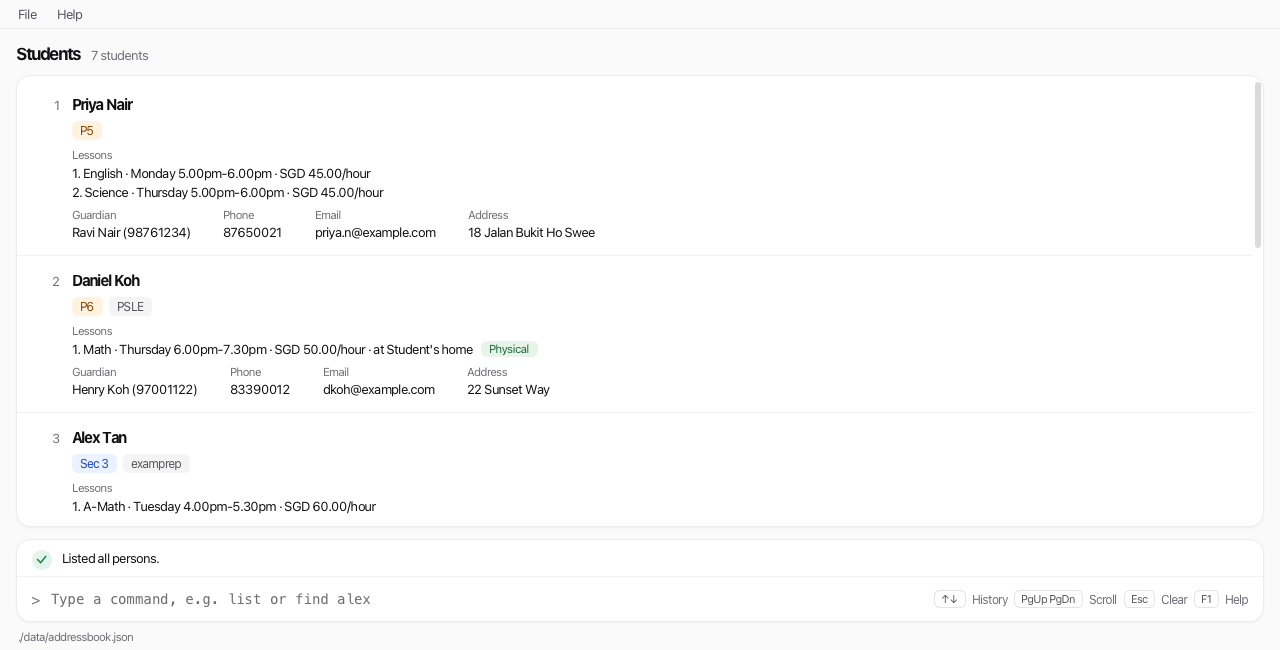
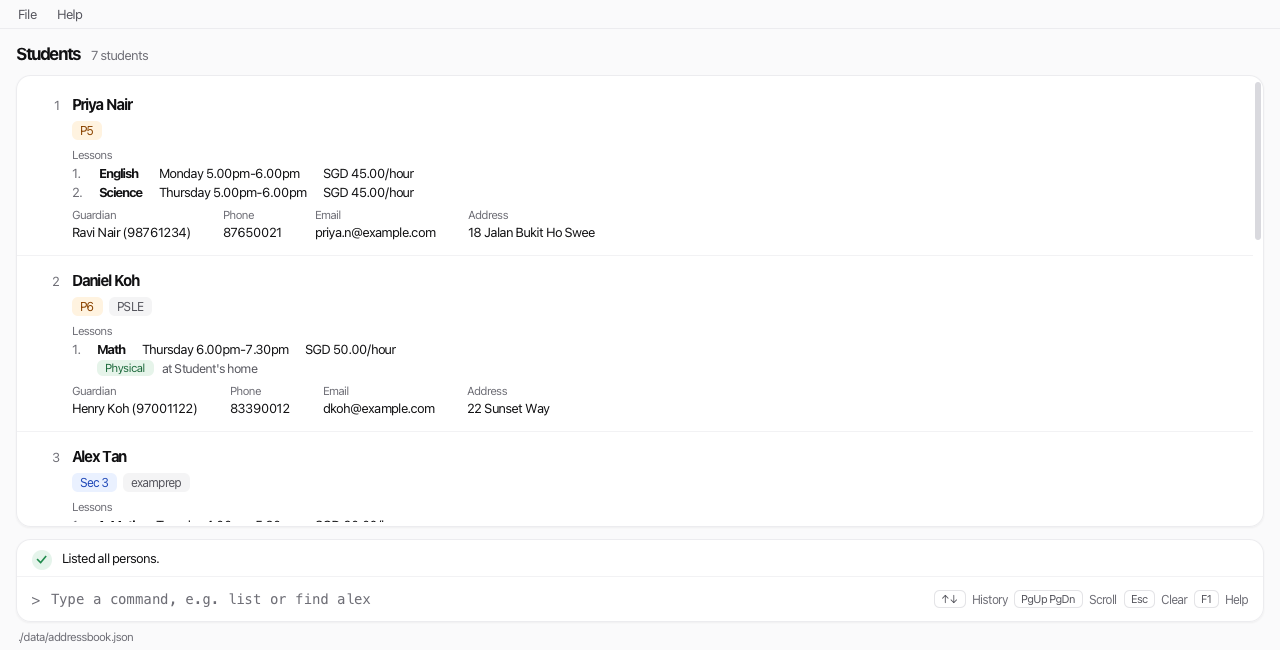
Show lessons as an aligned table on student cards
Line up each lesson's number, subject, time and rate in columns, with
the mode tag and location on a second line.

Changed region(s): [[0.0312, 0.5231, 0.4375, 0.8], [0.0625, 0.2462, 0.3125, 0.3077]]

diff --git a/src/main/resources/view/LightTheme.css b/src/main/resources/view/LightTheme.css
@@ -170,6 +170,23 @@
     -fx-text-fill: -sb-text-secondary;
 }
 
+/* Lessons table */
+.lesson-number {
+    -fx-font-size: 13px;
+    -fx-fill: -sb-text-muted;
+}
+
+.lesson-subject {
+    -fx-font-size: 13px;
+    -fx-font-weight: bold;
+    -fx-fill: -sb-text;
+}
+
+.lesson-location {
+    -fx-font-size: 12.5px;
+    -fx-fill: -sb-text-secondary;
+}
+
 /* Lesson mode chips: the two fixed modes each get a colour */
 .mode-chip {
     -fx-font-size: 11.5px;

diff --git a/src/main/java/seedu/address/ui/PersonCard.java b/src/main/java/seedu/address/ui/PersonCard.java
@@ -9,10 +9,12 @@ import java.util.Optional;
 
 import javafx.beans.binding.Bindings;
 import javafx.beans.binding.DoubleExpression;
+import javafx.beans.property.SimpleDoubleProperty;
 import javafx.fxml.FXML;
 import javafx.geometry.Pos;
 import javafx.scene.control.Label;
 import javafx.scene.layout.FlowPane;
+import javafx.scene.layout.GridPane;
 import javafx.scene.layout.HBox;
 import javafx.scene.layout.Region;
 import javafx.scene.layout.VBox;
@@ -34,9 +36,14 @@ public class PersonCard extends UiPart<Region> {
     private static final double FACT_FONT_SIZE = 13;
     /** The chip's horizontal padding (8 + 8) plus the 6px gap before the tags. */
     private static final double CHIP_PADDING_AND_GAP = 22;
-    /** A chip's horizontal padding (8 + 8), and the gap between a lesson and its mode chip. */
-    private static final double CHIP_PADDING = 16;
+    /** Gaps in the lessons table, and between a lesson's mode chip and its location. */
+    private static final double LESSON_COLUMN_GAP = 16;
+    private static final double LESSON_ROW_GAP = 3;
     private static final double MODE_CHIP_GAP = 8;
+    /** Room for the widest mode chip ("Physical") and its gap, in front of a location line. */
+    private static final double MODE_CHIP_ALLOWANCE = 76;
+    /** Subjects longer than this wrap, so the slot and rate columns still fit a 600px window. */
+    private static final double SUBJECT_MAX_WIDTH = 150;
     /** Colours the level chip by school stage; unrecognised levels stay neutral. */
     private static final Map<StudentCardText.Stage, String> STAGE_STYLE_CLASSES = Map.of(
             StudentCardText.Stage.PRIMARY, "level-primary",
@@ -79,9 +86,11 @@ public class PersonCard extends UiPart<Region> {
     @FXML
     private Text address;
 
-    /** Each lesson's text, with the mode chip beside it if the lesson has a mode. */
-    private final List<Text> lessonTexts = new ArrayList<>();
-    private final List<Optional<Label>> lessonModes = new ArrayList<>();
+    /** Text that wraps within the lessons table: long subjects, and each lesson's location line. */
+    private final List<Text> lessonSubjects = new ArrayList<>();
+    private final List<Text> lessonLocations = new ArrayList<>();
+    /** Width of the lesson number column, which the location line is indented by. */
+    private double lessonNumberWidth;
 
     /**
      * Creates a {@code PersonCard} with the given {@code Student} and index to display.
@@ -121,26 +130,56 @@ public class PersonCard extends UiPart<Region> {
         if (lines.isEmpty()) {
             Text none = new Text(StudentCardText.NO_LESSONS);
             none.getStyleClass().addAll(LESSON_STYLE_CLASS, EMPTY_VALUE_STYLE_CLASS);
-            lessonTexts.add(none);
-            lessonModes.add(Optional.empty());
             lessons.getChildren().add(none);
+        } else {
+            lessons.getChildren().add(lessonTable(lines));
         }
+    }
+
+    /**
+     * Lays the lessons out as a small table: number, subject, day and time, and rate line up in columns, and a
+     * lesson's mode and location sit on a second line under its subject. Numbers match {@code LESSON_INDEX}.
+     */
+    private GridPane lessonTable(List<StudentCardText.LessonLine> lines) {
+        GridPane table = new GridPane();
+        table.setHgap(LESSON_COLUMN_GAP);
+        table.setVgap(LESSON_ROW_GAP);
+        int row = 0;
         for (StudentCardText.LessonLine line : lines) {
-            Text text = new Text(line.text());
-            text.getStyleClass().add(LESSON_STYLE_CLASS);
-            Optional<Label> mode = line.mode().map(lessonMode -> {
+            Text number = new Text(line.number() + ".");
+            number.getStyleClass().add("lesson-number");
+            lessonNumberWidth = Math.max(lessonNumberWidth, textWidth(number.getText(), FACT_FONT_SIZE));
+            Text subject = new Text(line.subject());
+            subject.getStyleClass().add("lesson-subject");
+            lessonSubjects.add(subject);
+            table.addRow(row++, number, subject, lessonText(line.slot()), lessonText(line.rate()));
+
+            if (line.mode().isEmpty() && line.location().isEmpty()) {
+                continue;
+            }
+            HBox details = new HBox(MODE_CHIP_GAP);
+            details.setAlignment(Pos.CENTER_LEFT);
+            line.mode().ifPresent(lessonMode -> {
                 Label chip = new Label(lessonMode.toString());
                 chip.getStyleClass().addAll("chip", "mode-chip", "mode-" + lessonMode.name().toLowerCase(Locale.ROOT));
                 chip.setMinWidth(Region.USE_PREF_SIZE);
-                return chip;
+                details.getChildren().add(chip);
             });
-            HBox row = new HBox(MODE_CHIP_GAP, text);
-            row.setAlignment(Pos.CENTER_LEFT);
-            mode.ifPresent(row.getChildren()::add);
-            lessonTexts.add(text);
-            lessonModes.add(mode);
-            lessons.getChildren().add(row);
+            line.location().ifPresent(location -> {
+                Text text = new Text("at " + location);
+                text.getStyleClass().add("lesson-location");
+                lessonLocations.add(text);
+                details.getChildren().add(text);
+            });
+            table.add(details, 1, row++, 3, 1);
         }
+        return table;
+    }
+
+    private static Text lessonText(String value) {
+        Text text = new Text(value);
+        text.getStyleClass().add(LESSON_STYLE_CLASS);
+        return text;
     }
 
     /**
@@ -155,12 +194,11 @@ public class PersonCard extends UiPart<Region> {
         tags.prefWrapLengthProperty().bind(width.subtract(chipWidth));
         facts.prefWrapLengthProperty().bind(width);
         name.wrappingWidthProperty().bind(width);
-        for (int i = 0; i < lessonTexts.size(); i++) {
-            // A lesson's mode chip follows its text, so the text wraps in the width the chip leaves.
-            double modeWidth = lessonModes.get(i)
-                    .map(chip -> textWidth(chip.getText(), CHIP_FONT_SIZE) + CHIP_PADDING + MODE_CHIP_GAP).orElse(0.0);
-            wrapWhenLonger(lessonTexts.get(i), width.subtract(modeWidth));
-        }
+        // Long subjects wrap within their column; a location line can use the width beside the number column,
+        // less the mode chip in front of it.
+        lessonSubjects.forEach(subject -> wrapWhenLonger(subject, new SimpleDoubleProperty(SUBJECT_MAX_WIDTH)));
+        DoubleExpression locationWidth = width.subtract(lessonNumberWidth + LESSON_COLUMN_GAP + MODE_CHIP_ALLOWANCE);
+        lessonLocations.forEach(location -> wrapWhenLonger(location, locationWidth));
         wrapWhenLonger(guardian, width);
         wrapWhenLonger(email, width);
         wrapWhenLonger(address, Bindings.min(width, ADDRESS_MAX_WIDTH));

diff --git a/src/main/java/seedu/address/ui/StudentCardText.java b/src/main/java/seedu/address/ui/StudentCardText.java
@@ -20,8 +20,11 @@ final class StudentCardText {
     /** School stage of a schooling level, which sets the colour of its chip. */
     enum Stage { PRIMARY, SECONDARY, JC, OTHER }
 
-    /** One lesson line: its text, and its mode, which is shown as a separate coloured chip. */
-    record LessonLine(String text, Optional<LessonMode> mode) {}
+    /**
+     * One lesson, split into the parts the card lines up in columns. The number is the lesson's LESSON_INDEX.
+     */
+    record LessonLine(int number, String subject, String slot, String rate,
+            Optional<String> location, Optional<LessonMode> mode) {}
 
     // Levels are free text, so only clear forms such as "P5", "Primary 5", "Sec 3 Express" or "JC1" get a stage
     // colour. Anything else (e.g. "Poly Y1", "IB") is OTHER, so a level is never shown in the wrong colour.
@@ -47,8 +50,8 @@ final class StudentCardText {
     }
 
     /**
-     * Returns one line per lesson, numbered from 1 in stored order so the numbers match {@code LESSON_INDEX},
-     * e.g. "1. Math · Tuesday 4.00pm-5.30pm · SGD 60.00/hour · at Library", with the mode kept separately.
+     * Returns one entry per lesson, numbered from 1 in stored order so the numbers match {@code LESSON_INDEX},
+     * e.g. 1, "Math", "Tuesday 4.00pm-5.30pm", "SGD 60.00/hour", location "Library", mode Physical.
      * Returns an empty list when the student has no lessons.
      */
     static List<LessonLine> lessons(Student student) {
@@ -56,10 +59,9 @@ final class StudentCardText {
         List<Lesson> lessons = student.getLessons();
         for (int i = 0; i < lessons.size(); i++) {
             Lesson lesson = lessons.get(i);
-            StringBuilder line = new StringBuilder((i + 1) + ". " + lesson.getSubject() + " · "
-                    + lesson.getWeeklyLessonSlot() + " · SGD " + lesson.getHourlyRate() + "/hour");
-            lesson.getLocation().ifPresent(location -> line.append(" · at ").append(location));
-            lines.add(new LessonLine(line.toString(), lesson.getMode()));
+            lines.add(new LessonLine(i + 1, lesson.getSubject().toString(), lesson.getWeeklyLessonSlot().toString(),
+                    "SGD " + lesson.getHourlyRate() + "/hour", lesson.getLocation().map(Object::toString),
+                    lesson.getMode()));
         }
         return lines;
     }

diff --git a/src/test/java/seedu/address/ui/StudentCardTextTest.java b/src/test/java/seedu/address/ui/StudentCardTextTest.java
@@ -43,14 +43,15 @@ public class StudentCardTextTest {
     }
 
     // lesson-edit and lesson-delete take LESSON_INDEX, so the card must number lessons from 1 in stored order.
-    // The mode is kept apart from the text because the card shows it as a coloured chip.
+    // Location and mode are optional and stay empty when not recorded.
     @Test
-    public void lessons_numberedInStoredOrderWithModeSeparate() {
+    public void lessons_numberedInStoredOrderWithOptionalDetails() {
         Student student = new PersonBuilder().withLessons(MATH, ENGLISH).build();
         assertEquals(List.of(
-                new LessonLine("1. Math · Tuesday 4.00pm-5.30pm · SGD 60.00/hour", Optional.empty()),
-                new LessonLine("2. English · Saturday 10.00am-11.00am · SGD 45.50/hour · at Tampines Library",
-                        Optional.of(LessonMode.PHYSICAL))),
+                new LessonLine(1, "Math", "Tuesday 4.00pm-5.30pm", "SGD 60.00/hour", Optional.empty(),
+                        Optional.empty()),
+                new LessonLine(2, "English", "Saturday 10.00am-11.00am", "SGD 45.50/hour",
+                        Optional.of("Tampines Library"), Optional.of(LessonMode.PHYSICAL))),
                 StudentCardText.lessons(student));
     }
 

diff --git a/docs/DeveloperGuide.md b/docs/DeveloperGuide.md
@@ -58,7 +58,7 @@ The UI sends commands to `Logic` and observes two lists:
 
 When either list changes, the `ListView` rebuilds the affected `PersonCard`s, so cards never show stale data after an edit.
 
-* **Cards:** `PersonCard` shows the contact fields, the optional level, tags and guardian, and the student's lessons. `StudentCardText` numbers the lessons from 1 in stored order, so each number is the `LESSON_INDEX` for `lesson-edit` and `lesson-delete`. A missing guardian shows as a muted `Not set` and no lessons as `No lessons yet`. `StudentCardText#stageOf` colours the level chip by school stage, matching only clear forms such as `P5`, `Sec 3 Express` and `JC1`; other levels stay neutral, since levels are free text. Each lesson's mode is a chip after its text, coloured by mode. JavaFX asks a list cell for its height before laying it out. So the card's wrapping text (`Text`) and its `FlowPane` rows wrap at a width bound to the list's width. Long names, subjects and addresses wrap instead of being cut off.
+* **Cards:** `PersonCard` shows the contact fields, the optional level, tags and guardian, and the student's lessons. `StudentCardText` numbers the lessons from 1 in stored order, so each number is the `LESSON_INDEX` for `lesson-edit` and `lesson-delete`. A missing guardian shows as a muted `Not set` and no lessons as `No lessons yet`. `StudentCardText#stageOf` colours the level chip by school stage, matching only clear forms such as `P5`, `Sec 3 Express` and `JC1`; other levels stay neutral, since levels are free text. Lessons are a `GridPane` so their parts line up; each lesson's mode is a coloured chip on a second line with its location. JavaFX asks a list cell for its height before laying it out. So the card's wrapping text (`Text`) and its `FlowPane` rows wrap at a width bound to the list's width. Long names, subjects and addresses wrap instead of being cut off.
 * **Results:** `MainWindow#executeCommand` sends successes to `ResultDisplay#setFeedbackToUser` and failures to `ResultDisplay#setErrorToUser`. The row shows a matching mark. `FeedbackLines` splits a message into a title, text, formats and examples; it recognises the shapes the commands' `MESSAGE_USAGE` strings use. `ResultDisplay` shows formats and examples with captions in a monospace font chosen by `MonospaceFont`; clicking one copies it, since `Text` nodes cannot be selected. The row sizes to the message and scrolls past its maximum height. `FeedbackLinesTest` runs every command's real usage error, so rewording a usage message into an unrecognised shape fails a test.
 * **Keyboard:** `CommandBox` keeps the AB3 behaviour: it clears the input after a success, and keeps it with an error style after a failure. It also handles Up and Down through `CommandHistory` (this session only, with the unsent text kept), Esc to clear, and Page Up and Page Down, which call `PersonListPanel#scrollPage` so the list scrolls while focus stays in the box. Key hints show while the box is empty and the window is at least 720px wide. `MainWindow` focuses the command box after building its parts, and Esc closes `HelpWindow`.
 * **Window size:** The window's minimum size is 600×400. A saved window size larger than the screen it opens on is reduced to fit, so the app stays usable on a 1280×720 screen at 150% scaling. The saved position is used as before.
@@ -199,7 +199,7 @@ Tests cover loading, save/reload and invalid values (`TuitionStorageTest`). A fa
 | Execute | `LessonCommand` resolves the student from the current filtered list, copies the lesson list, then adds, replaces or removes one entry. Edit keeps any lesson field that was not supplied. |
 | Validate | A result containing duplicate lessons fails with `MESSAGE_DUPLICATE_LESSON`. A bad student or lesson index fails with `MESSAGE_INVALID_PERSON_DISPLAYED_INDEX` or `MESSAGE_INVALID_LESSON_DISPLAYED_INDEX`. Failures leave the model unchanged. |
 | Update | The command builds a replacement `Student` with the new lesson list and every other field copied, then calls `Model#setPerson`. The active filter stays. |
-| Display | `PersonCard` shows a muted `No lessons yet`, or one numbered line per lesson from `StudentCardText#lessons`, for example `1. Math · Wednesday 1.00pm-5.00pm · SGD 45.50/hour · at Clementi Library`, with the mode as a coloured chip after it. The number is the lesson's `LESSON_INDEX`. |
+| Display | `PersonCard` shows a muted `No lessons yet`, or a table built from `StudentCardText#lessons`: number, subject, slot and rate in columns, and a second line with the mode chip and location when recorded. The number is the lesson's `LESSON_INDEX`. |
 | Save | `LogicManager` saves through the existing storage workflow; `JsonAdaptedLesson` persists each lesson. |
 
 Tests: `LessonCommandParserTest`, `LessonWorkflowTest` (add, edit, clear, delete, filtered indices, invalid input, duplicates and save/reload), `LessonTest`, `StudentTest` and `WeeklyLessonSlotTest`.
@@ -554,7 +554,7 @@ Use an empty test folder and sample data. These checks are a starting point; als
 
 ### Lessons and saved data
 
-1. Add a unique test student, then run `lesson-add INDEX subject/Combined   Science slot/Wed 1.00pm 5.00pm rate/45.5`, using three spaces between the words. The card should show `1. Combined Science · Wednesday 1.00pm-5.00pm · SGD 45.50/hour`.
+1. Add a unique test student, then run `lesson-add INDEX subject/Combined   Science slot/Wed 1.00pm 5.00pm rate/45.5`, using three spaces between the words. The card should show lesson `1.` with subject `Combined Science`, `Wednesday 1.00pm-5.00pm` and `SGD 45.50/hour`.
 2. Run `lesson-add INDEX subject/English slot/mon 4.00pm 5.00pm rate/40 mode/virtual location/https://zoom.us/j/123`. The card should list both lessons in order, the second with `Virtual` and its location.
 3. Run `lesson-edit INDEX 2 rate/50`, then edit the student's phone with `edit`. Both lessons should stay, and only the rate should change.
 4. Restart the app. Everything above should remain.

diff --git a/docs/UserGuide.md b/docs/UserGuide.md
@@ -142,7 +142,7 @@ Each student can have zero or more lessons. A lesson has a subject, a weekly tim
 
 * **Create:** `lesson-add STUDENT_INDEX subject/SUBJECT slot/LESSON_SLOT rate/HOURLY_RATE [mode/MODE] [location/LOCATION]`
   Subject, slot and rate are required; mode and location are optional. The new lesson is added to the end of the student's lessons.
-* **Read:** Use `list` or `find` to display the student. Their card numbers each lesson in order, for example `1. Math · Wednesday 1.00pm-5.00pm · SGD 45.50/hour · at Clementi Library` followed by a `Physical` tag (location and mode are shown only when recorded), or shows a grey `No lessons yet` when there are none. Use that number as `LESSON_INDEX`.
+* **Read:** Use `list` or `find` to display the student. Their card lists the lessons as a small table: the lesson number, subject, day and time, and rate line up in columns. A lesson's mode (`Physical` or `Virtual`) and location appear on a second line when recorded. A student with no lessons shows a grey `No lessons yet`. Use the lesson number as `LESSON_INDEX`.
 * **Update:** `lesson-edit STUDENT_INDEX LESSON_INDEX [subject/SUBJECT] [slot/LESSON_SLOT] [rate/HOURLY_RATE] [mode/MODE] [location/LOCATION]`
   Supply at least one field. Omitted fields stay unchanged. To remove a recorded mode or location, give its prefix with nothing after it: `mode/` clears the mode and `location/` clears the location (see the examples below).
 * **Delete:** `lesson-delete STUDENT_INDEX LESSON_INDEX`
